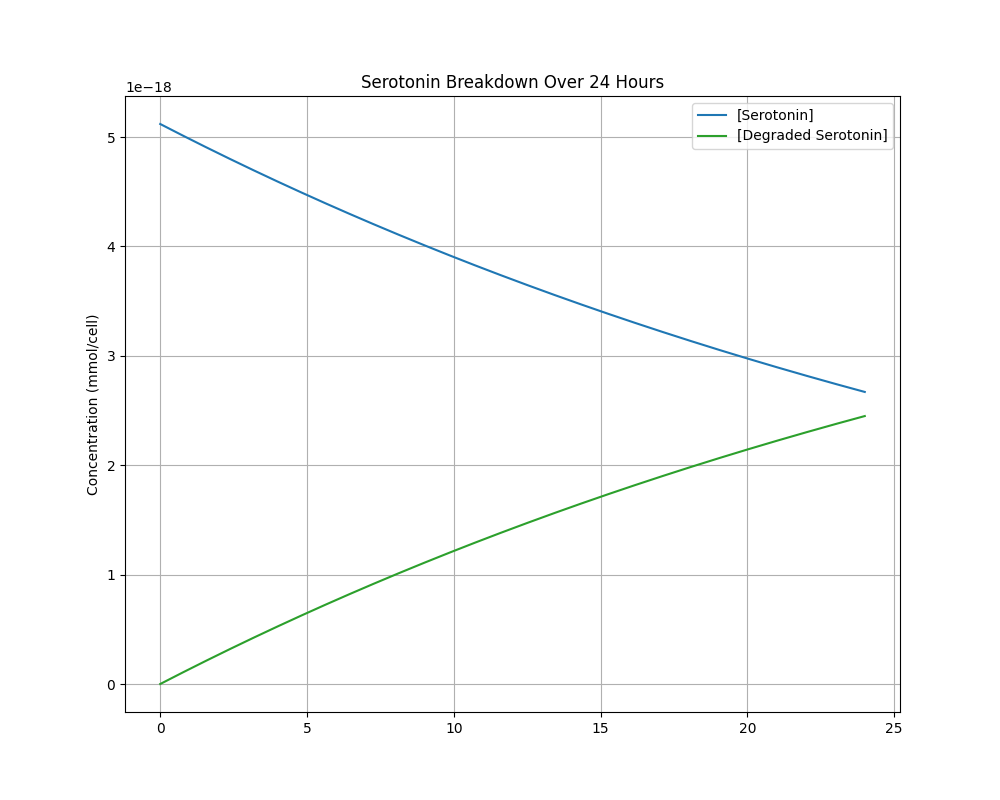
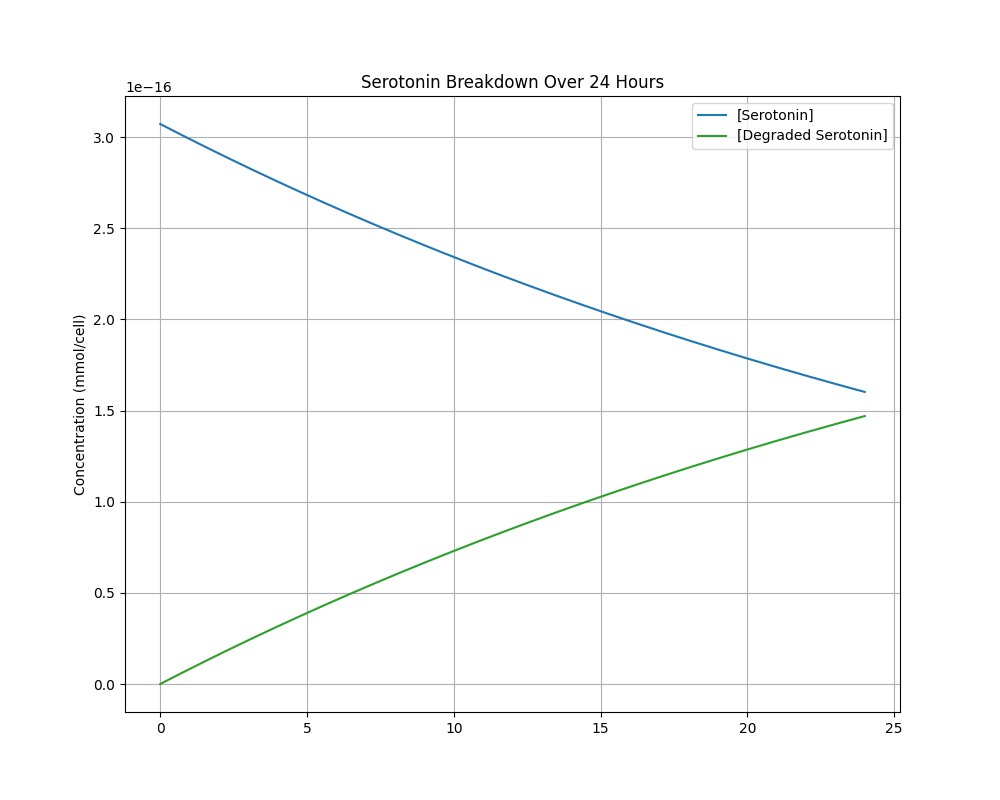
workingBrains

diff --git a/pbl2/BrainA.py b/pbl2/BrainA.py
@@ -9,27 +9,25 @@ sat = [] #what percentage of SERTs bound by DXM
 
 #amount of serotonin passing through SERT
 ser_sert =[]
-
+S0 = c.S_5 * 60000 #mmol/cell/hour
+print("S0: ", c.case, S0)
 
 def DXM_inhibitor(t):
     decay = 0.5 ** (t / 2)
     DXM_mol = c.DXM_2 * decay
     DXM_mol_cell = DXM_mol / c.S_cells * 1000
-    DXM_saturation = DXM_mol_cell / (0.00368/c.S_cells)
+    DXM_saturation = DXM_mol_cell / (c.brainSat/c.S_cells)
     if DXM_saturation >= 100:
         DXM_saturation = 100
     #calculating the amount of serotonin that is moving through SERT/cell/hour
-    S0 = c.S_5 * 60 #mol/cell/hour
-    if c.DXM_2 == 0:
-        S_new = S0
-    else:
-        S_new = S0 * (1/(DXM_saturation/100))
+    S_new = S0 * ((DXM_saturation)/100)
+    #print((DXM_saturation/100))
     return DXM_mol_cell, DXM_saturation, S_new  # mmol/cell
 
 
 for time in t:  
     if(c.DXM_2 == 0):
-        ser_sert.append(c.Serotonin_conc_B)
+        ser_sert.append(S0)
         sat.append(0)
     else:
         a = DXM_inhibitor(time)[0]
@@ -46,12 +44,20 @@ sert_dict = {float(t): float(v) for t, v in zip(t_rounded, ser_sert)}
 tfs = []
 for dx in sat:
     tfs.append(1 - float(dx)/100.0)
-print(tfs) 
+#print(tfs) 
 
 #for BrainB:
 TF = {float(t): float(v) for t, v in zip(t_rounded, tfs)}
-S0 = sert_dict[0]
+
+
+S0 = c.S_5*60000
 #print(TF)
+
+
+
+
+
+
 
 if (c.case>2) :
     plt.figure(figsize=(10, 8))
@@ -63,7 +69,7 @@ if (c.case>2) :
     plt.savefig("pbl2/graphs/DexBreakdown.png")
 
     plt.figure(figsize = (10, 8))
-    plt.plot(t, sat)
+    plt.plot(t, tfs)
     plt.xlabel('Time (hours)')
     plt.ylabel('Saturation (%)')
     plt.title('Dextromethorphan and Serotonin Saturation Over 24 Hours')
@@ -73,9 +79,11 @@ if (c.case>2) :
     plt.figure(figsize = (10, 8))
     plt.plot(t, ser_sert)
     plt.xlabel('Time (hours)')
-    plt.ylabel('Saturation (%)')
+    plt.ylabel('Rate of Serotonin passing (mmol/hr)')
     plt.title('Amount of Serotonin Passing Through SERT Over 24 Hours')
     plt.grid(True)
     plt.savefig("pbl2/graphs/SerotoninSERT.png")
 
 
+#print("ser_sert:", ser_sert)
+print(ser_sert[0])

diff --git a/pbl2/constants.py b/pbl2/constants.py
@@ -71,19 +71,21 @@ DXM_4 = DXM_2 #mol/day
 MAOI_4 = MAOI_2 #mol/day
 S_4 = S_reactor #mol/day
 
+#S_5 = 5.12e-21
 #Stream 5 #ELLA please consider that the DXM half life is 2 hours, these numebrs are the amount of S passing thru SERT when DXM is all there at t = 0, please figure out how to model these as functions of time 
 if case == 0 or case == 1 or case == 2: 
-    S_5 = 2.56e-15 #mole/neuron*sec #constant we mathematically dervied for maximum serotonin passing through 
+    S_5 = 5.12e-21 #mole/neuron*sec #constant we mathematically dervied for maximum serotonin passing through 
 elif case == 3:
-    S_5 = 0.9925*2.56e-15 #percentage of 2.56e-15 depending on saturation 
+    S_5 = 0.9925*5.12e-21 #percentage of 5.12e-21 depending on saturation 
 elif case == 4:
-    S_5 = 0.75*2.56e-15 #percentage of 2.56e-15 depending on saturation 
+    S_5 = 0.75*5.12e-21 #percentage of 5.12e-21 depending on saturation 
 elif case == 5:
-    S_5 = 0.5*2.56e-15 #percentage of 2.56e-15 depending on saturation 
+    S_5 = 0.5*5.12e-21 #percentage of 5.12e-21 depending on saturation 
 elif case == 6:
-    S_5 = 0.25*2.56e-15 #percentage of 2.56e-15 depending on saturation 
+    S_5 = 0.25*5.12e-21 #percentage of 5.12e-21 depending on saturation 
 elif case == 7:
-    S_5 = 0 #percentage of 2.56e-15 depending on saturation 
+    S_5 = 0 #percentage of 5.12e-21 depending on saturation 
+    
 MAOI_5 = MAOI_4 
 DXM_5 = DXM_4
 
@@ -102,7 +104,8 @@ Vmax_maoB = 21.7*24*10e-6 #mmoles/mg/hr
 Ki_maoi_maoA = 0.0373 / S_cells #mM per cell
 Ki_maoi_maoB = 0.0136 / S_cells #mM per cell
 Serotonin_conc_B = S_6 / S_cells *1000 #millimoles per cell 
-print(Serotonin_conc_B)
+brainSat = 0.011*1000 #mmol
+print("S5: ", S_5)
 
 
 

diff --git a/pbl2/BrainB.py b/pbl2/BrainB.py
@@ -16,7 +16,7 @@ TF = A.TF                        #dictionary of transport factors of serotonin
 S0 = A.S0             # mM, for each time value over 24 hours (dictionary= time:ser_sert)
 S_star0 = 0.0                    # mM
 initial_conditions = [S0, S_star0]
-
+print("S):", S0)
 def MAOI_inhibitor(t):
     decay = 0.5 ** (t / 2)
     MAOI_mg = (c.MAOI_in) * decay
@@ -67,7 +67,7 @@ if c.case == 0:
     plt.grid(True)
     plt.savefig("pbl2/graphs/brainB_case0.png")
     S_star_8 = sol.y[1,-1]  #total amount of S_star created per day
-    print(S_star_8)
+    print("S*: ",S_star_8)
 
 else:
     sol = solve_ivp(MAOI_competitive_inhibition, t_span, initial_conditions, t_eval=t_eval)
@@ -92,6 +92,6 @@ else:
     filepath = "pbl2/graphs/brainB_case" + str(c.case) + ".png"
     plt.savefig(filepath)
     S_star_8 = sol.y[1,-1]  #total amount of S_star created per day
-    print(S_star_8)
+    print("S*: ",S_star_8)
 
 

diff --git a/pbl2/control.py b/pbl2/control.py
@@ -6,3 +6,4 @@ cases = [0,1,2]
 for c in cases:
     #get and save data for each case, then graph generically
     continue;
+
